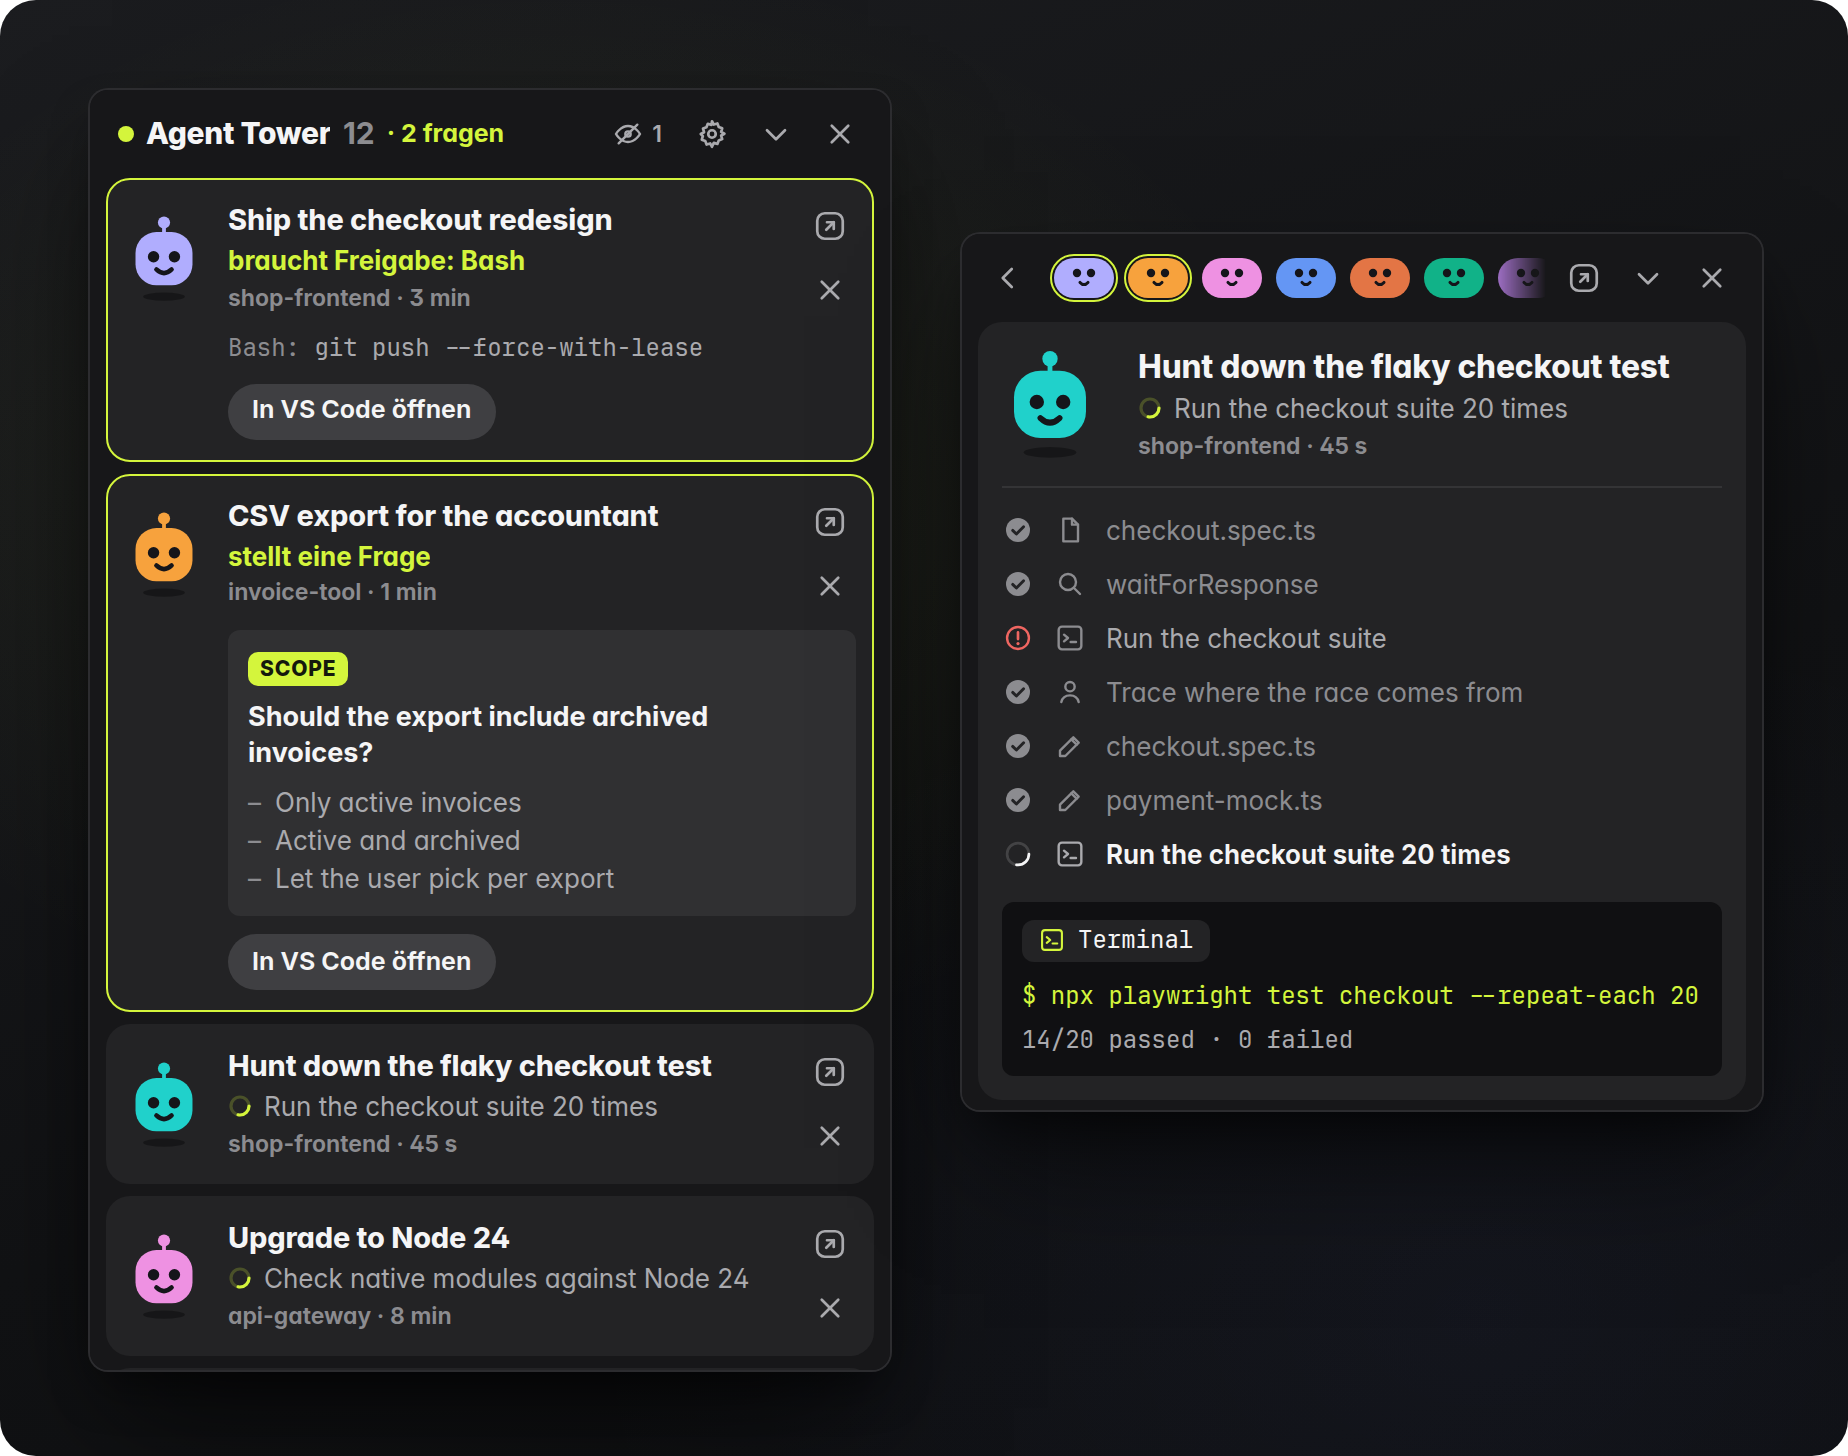
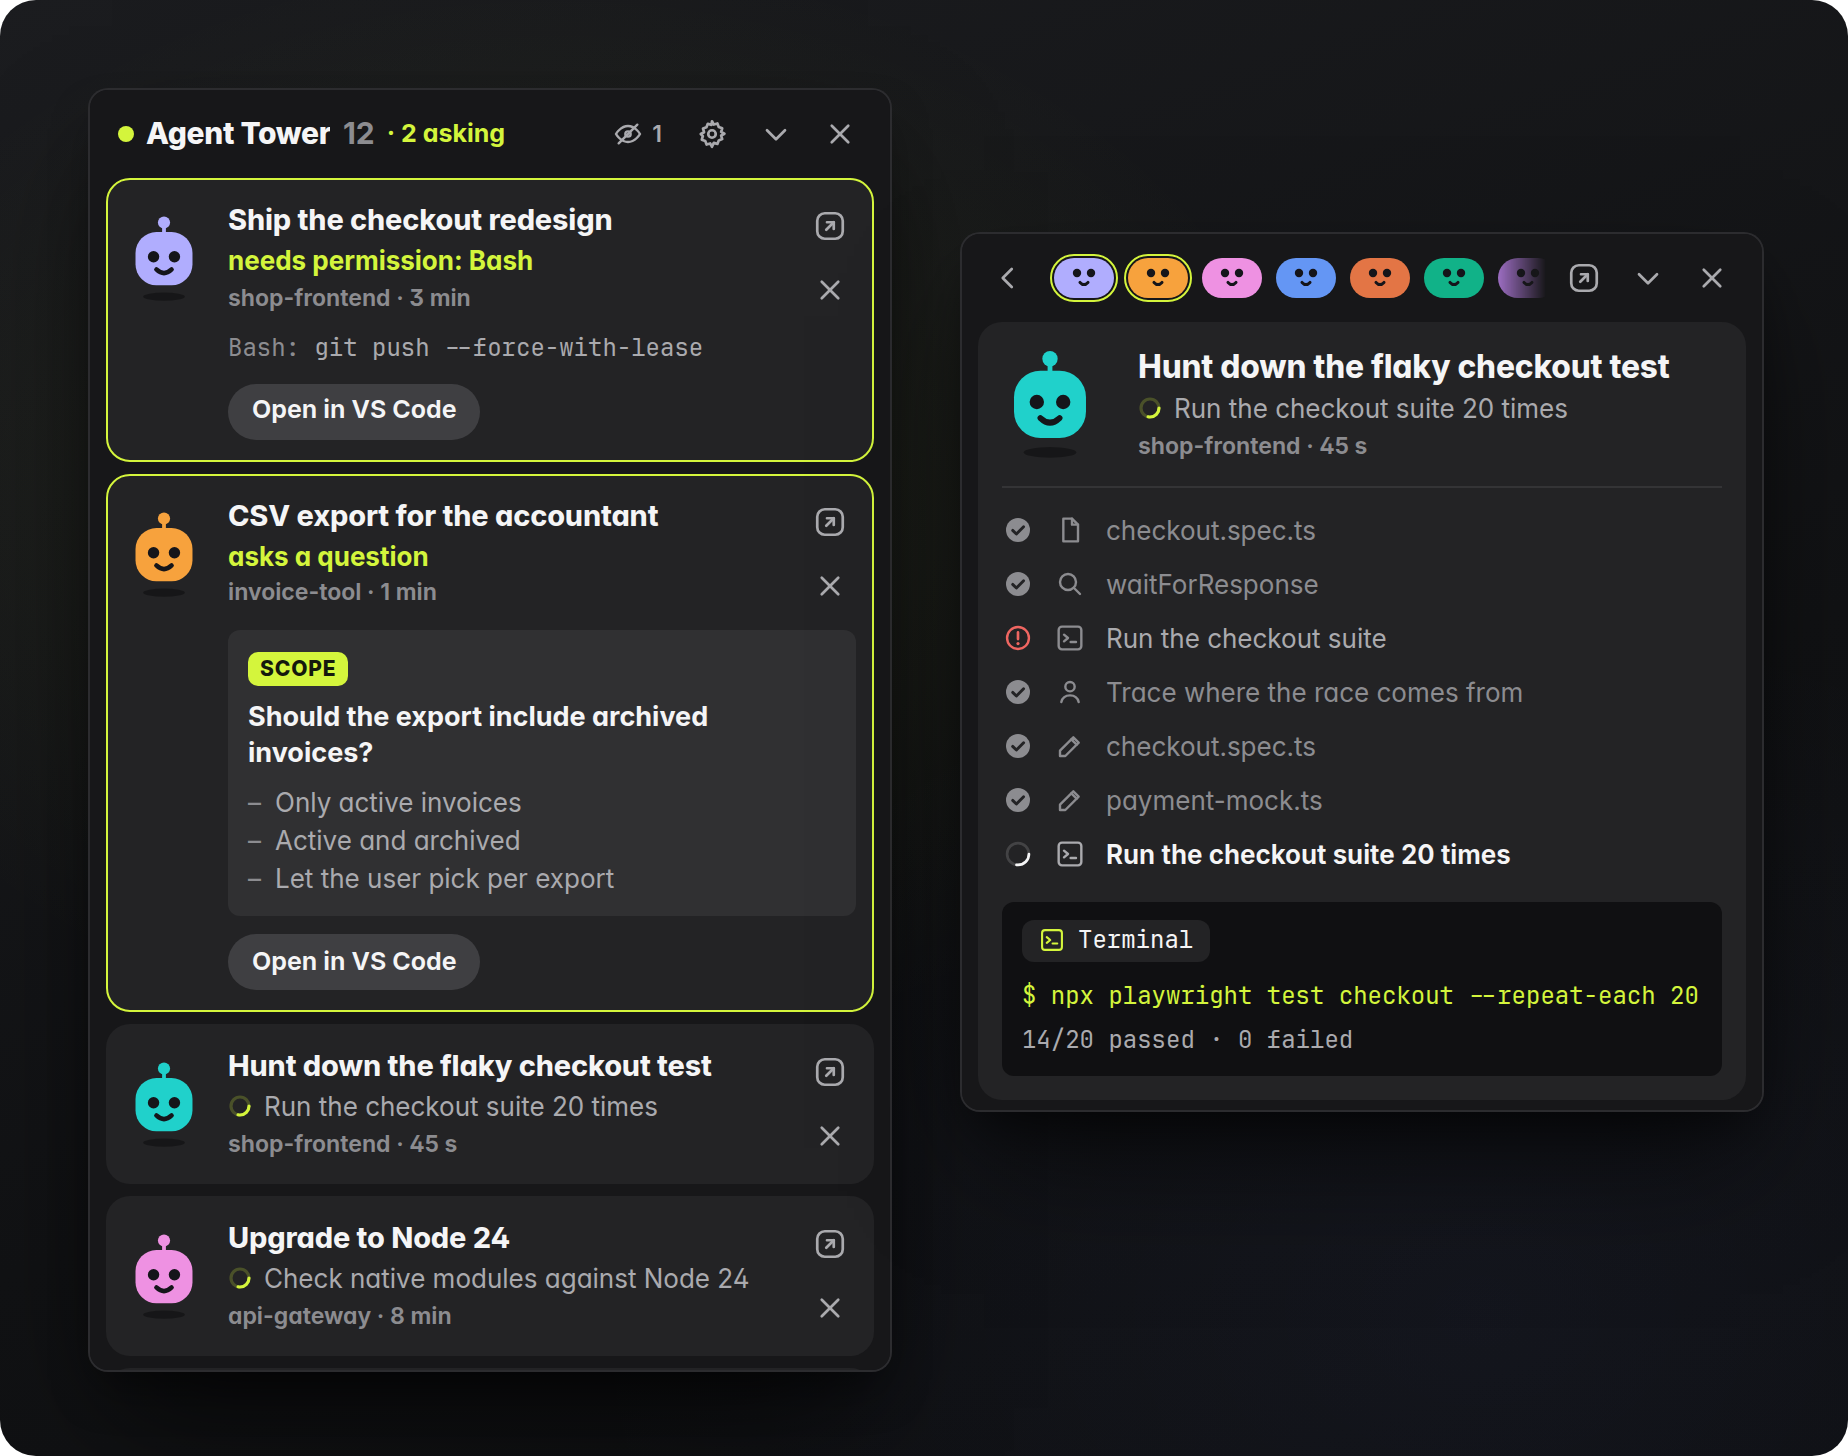
docs: README and screenshots with the English UI
The screenshots now show the English labels, and the README quotes them (2 asking, probably asking, Quit, Start with Windows) instead of the German ones with a gloss.

diff --git a/README.md b/README.md
@@ -4,7 +4,7 @@ A Claude Code session that waits for your answer does nothing until you look. Ag
 
 ![Agent Tower: two sessions asking for you at the top of the list, one waiting for permission to push and one with a question about a CSV export; next to it the detail view of a session that runs a test suite](docs/img/hero.png)
 
-*The screenshots show made-up demo sessions. The interface is German for now.*
+*The screenshots show made-up demo sessions.*
 
 ## Why
 
@@ -14,7 +14,7 @@ Meanwhile those agents sit idle, and the work they would do next waits for a sin
 
 ## What it does
 
-Sessions that wait for a permission, an answer or a plan approval get a lime frame and move to the top. The header counts them ("2 fragen", two asking) and keeps counting when you fold the window down to that one line. A permission prompt raised by a subagent shows up on its parent's row, because that is where you answer it.
+Sessions that wait for a permission, an answer or a plan approval get a lime frame and move to the top. The header counts them ("2 asking") and keeps counting when you fold the window down to that one line. A permission prompt raised by a subagent shows up on its parent's row, because that is where you answer it.
 
 The card tells you what the session wants before you switch: the command it wants to run, or the question with its options. Often that is enough to know whether it takes two seconds or real thought. A click on the row opens the session's latest steps and the last terminal command with its output, and the coloured faces at the top switch between sessions.
 
@@ -28,7 +28,7 @@ Everything else stays quiet. A working session shows the step it is on. A finish
 
 Agent Tower reads. It installs no hooks, writes nothing into Claude Code's folders and has no button that ends a session or a process. Its state (hidden rows and your settings) lives in a folder of its own, and the daemon listens on `127.0.0.1` only. Quit it and nothing changes for your sessions; they never knew it was there.
 
-It also does not pretend. A long-running command can look like a permission prompt, so when Agent Tower cannot prove that a session is asking, the row says "fragt vermutlich" (probably asking) behind a dashed frame instead of the lime one. A value it cannot know is shown as a dash, not as a plausible guess.
+It also does not pretend. A long-running command can look like a permission prompt, so when Agent Tower cannot prove that a session is asking, the row says "probably asking" behind a dashed frame instead of the lime one. A value it cannot know is shown as a dash, not as a plausible guess.
 
 ## Where it runs
 
@@ -54,7 +54,7 @@ Run this in WSL:
 ./scripts/build-shell.sh
 ```
 
-It publishes the shell to `%LOCALAPPDATA%\AgentTower\app\`, writes `settings.json` one folder up if there is none yet, and puts "Agent Tower" into the Start Menu. With `--test` it runs the shell's unit tests first. The app has to be closed while it is rebuilt (tray icon, "Beenden"); the script says so when the exe is still in use.
+It publishes the shell to `%LOCALAPPDATA%\AgentTower\app\`, writes `settings.json` one folder up if there is none yet, and puts "Agent Tower" into the Start Menu. With `--test` it runs the shell's unit tests first. The app has to be closed while it is rebuilt (tray icon, "Quit"); the script says so when the exe is still in use.
 
 Start the app from the Start Menu. It checks whether the daemon answers and starts it if not. The header's X hides the window, a left click on the tray icon brings it back. The gear in the header opens the settings: start with Windows, always on top, and after how long a finished session moves to the slim rows.
 
@@ -84,7 +84,7 @@ The daemon writes its log to `/tmp/agent-tower.log`, and the page opens in any b
 
 ## Uninstall
 
-Switch off "Mit Windows starten" in the widget's settings, or delete the value `AgentTower` under `HKCU\Software\Microsoft\Windows\CurrentVersion\Run` by hand. Quit the app and run `./scripts/stop-server.sh`. Then delete the folder `%LOCALAPPDATA%\AgentTower`, the shortcut `Agent Tower.lnk` in `%APPDATA%\Microsoft\Windows\Start Menu\Programs\`, and `~/.local/state/agent-tower` in WSL.
+Switch off "Start with Windows" in the widget's settings, or delete the value `AgentTower` under `HKCU\Software\Microsoft\Windows\CurrentVersion\Run` by hand. Quit the app and run `./scripts/stop-server.sh`. Then delete the folder `%LOCALAPPDATA%\AgentTower`, the shortcut `Agent Tower.lnk` in `%APPDATA%\Microsoft\Windows\Start Menu\Programs\`, and `~/.local/state/agent-tower` in WSL.
 
 ## Credits
 
